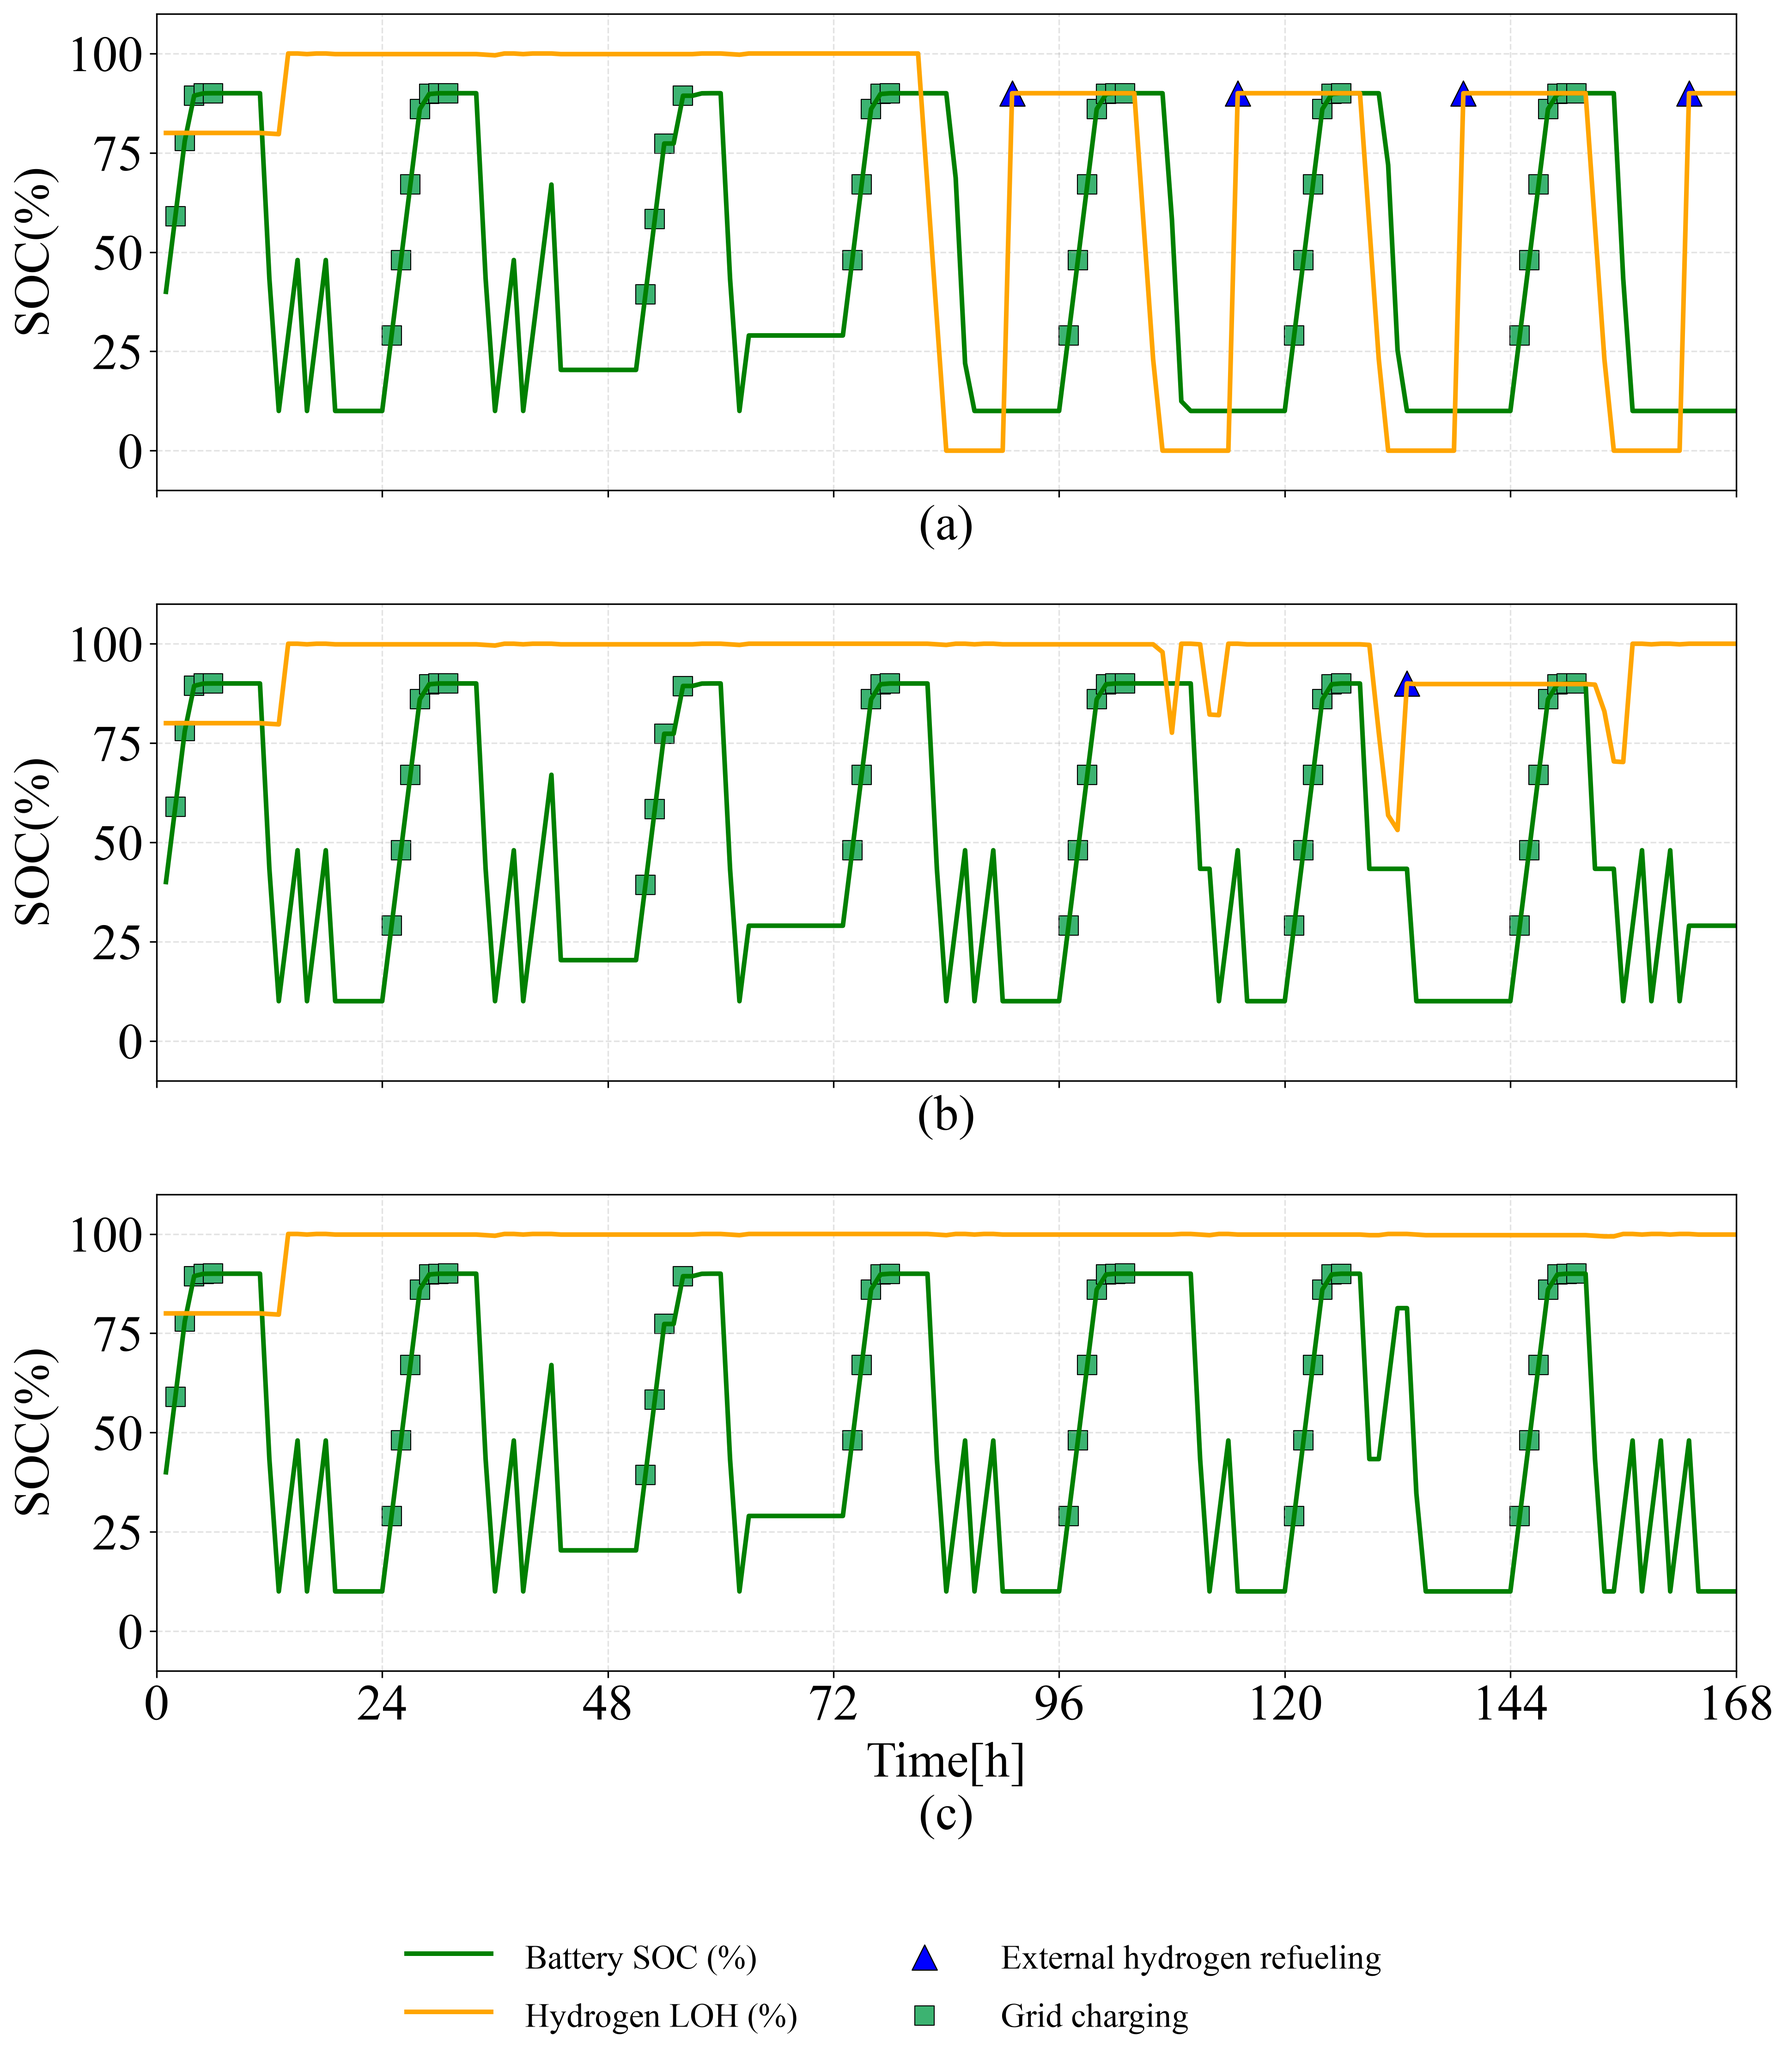
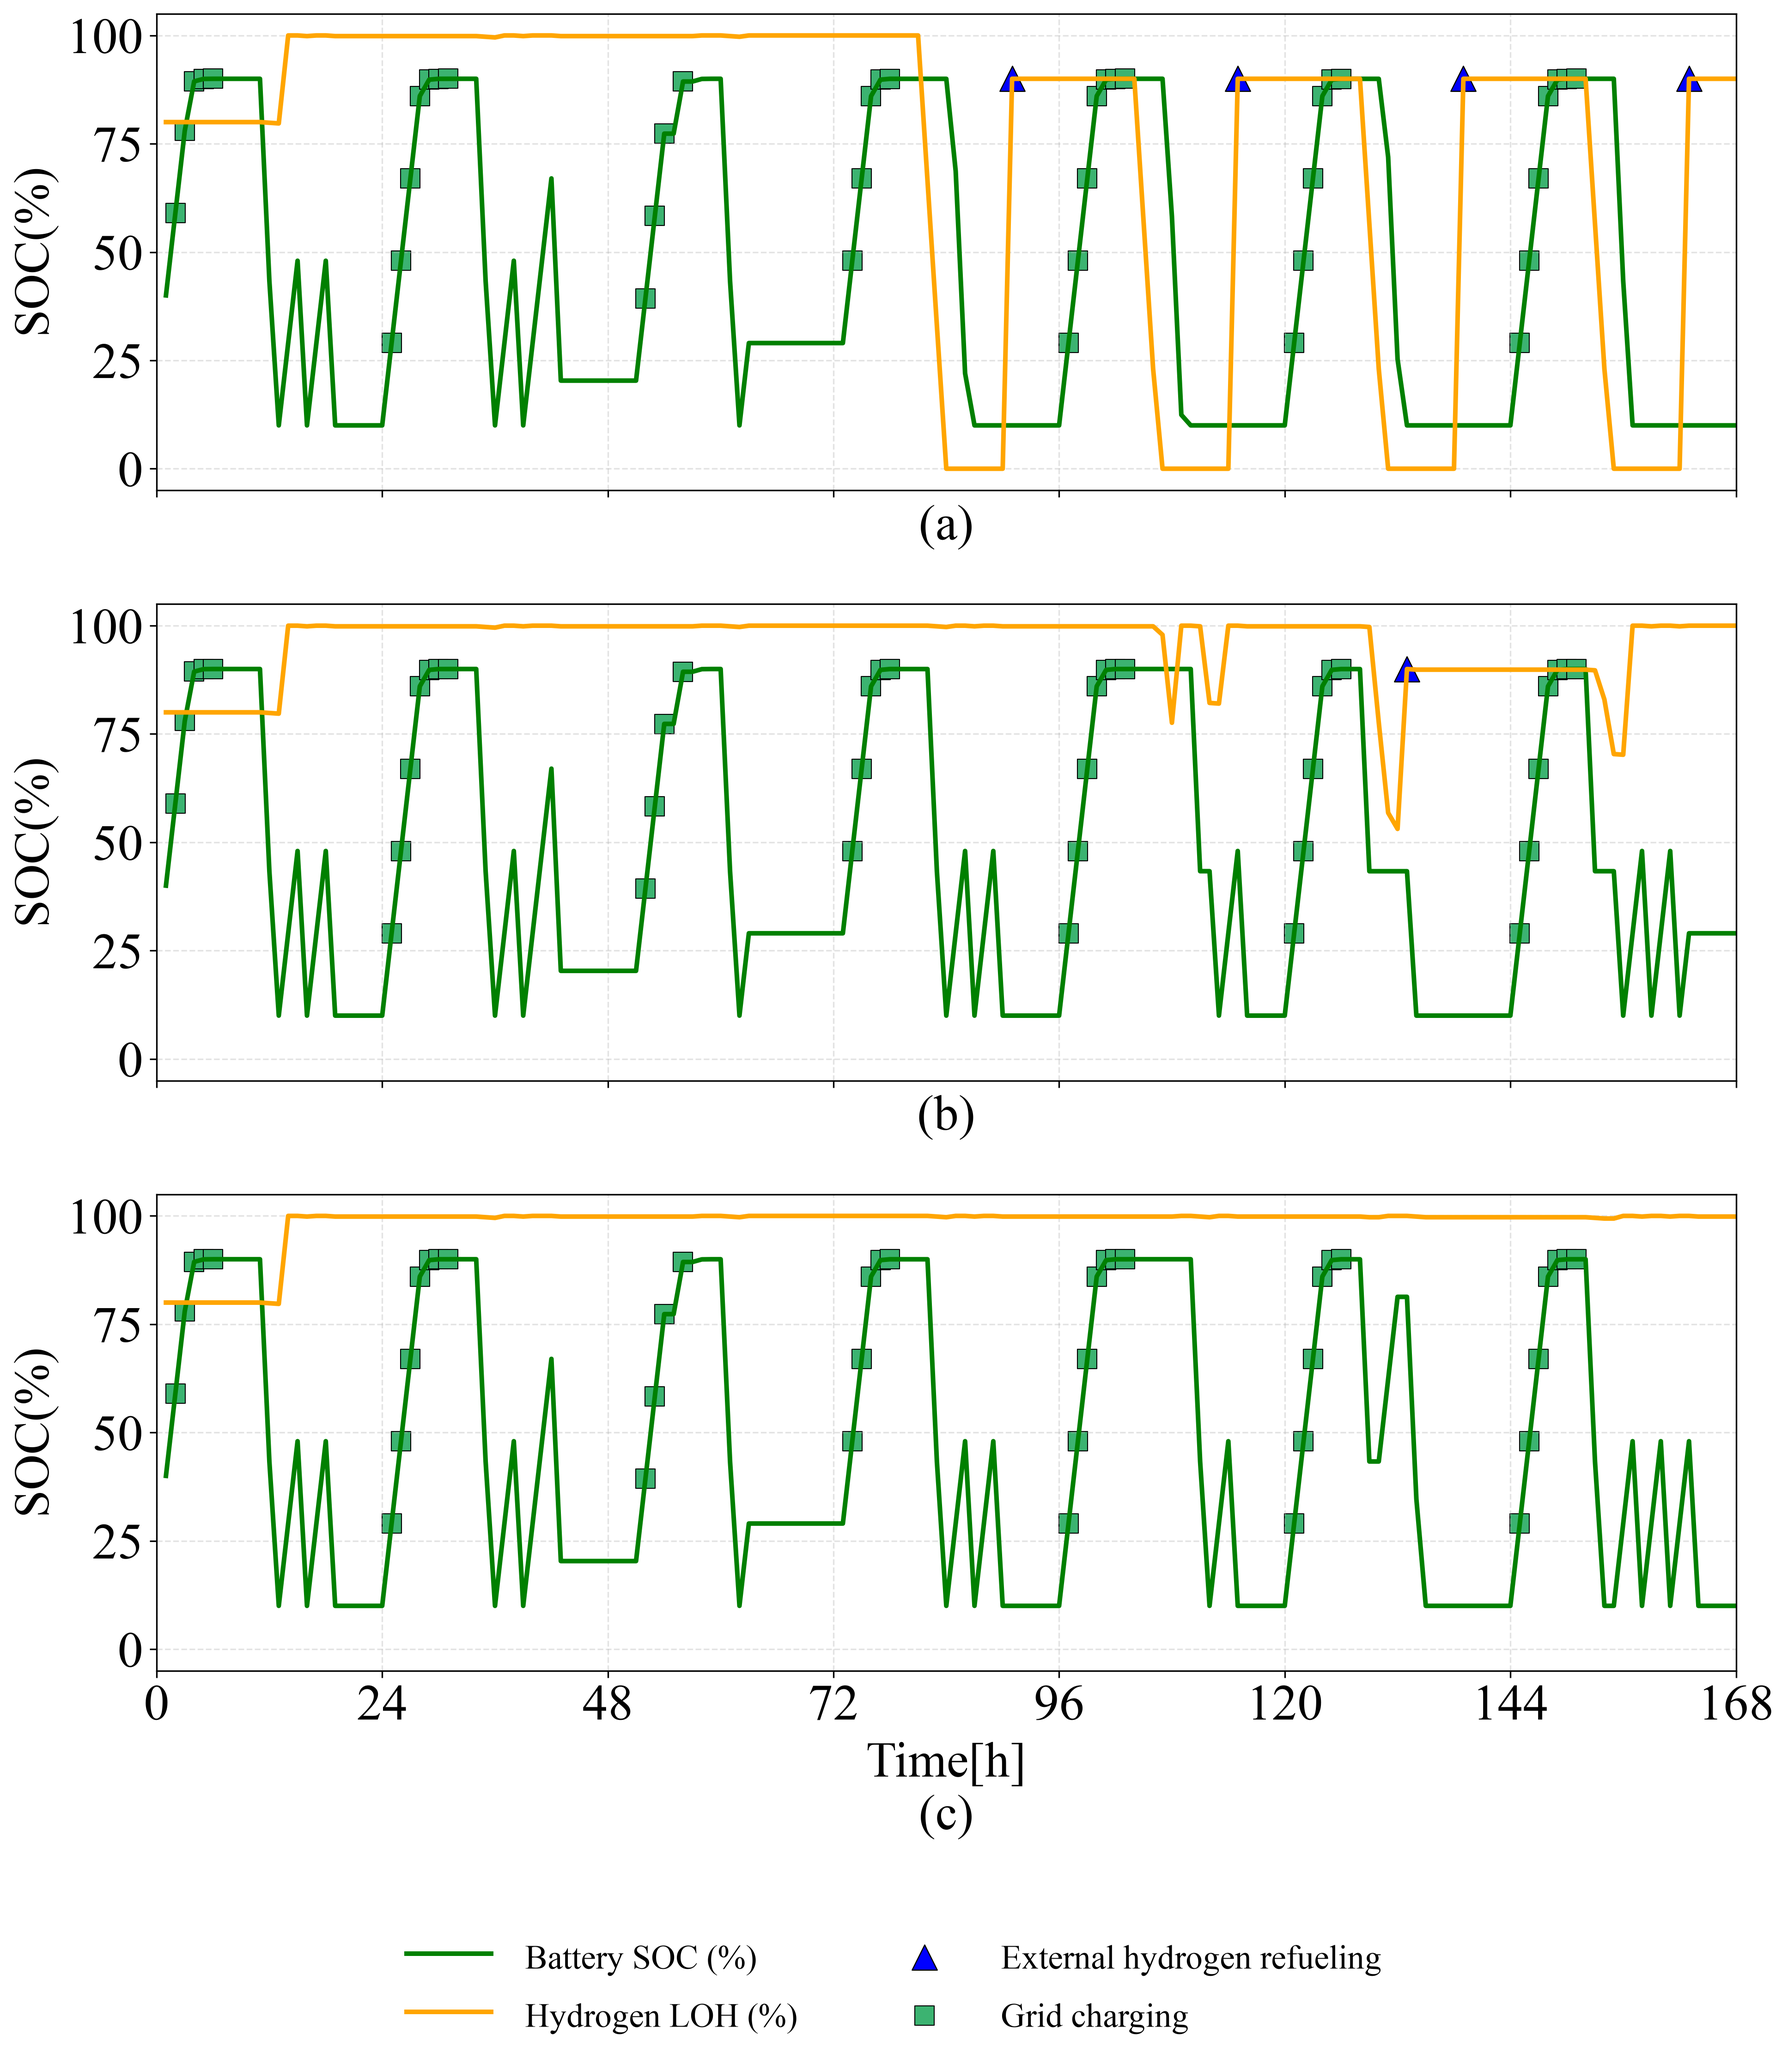
Set Figure 6 y-axis to minus five through 105

diff --git a/HB-MPS main simulation.py b/HB-MPS main simulation.py
@@ -523,7 +523,7 @@ def draw_asset_status(ax, res, alpha):
         )
 
     ax.set_ylabel("SOC(%)", fontsize=Config.FONT_LABEL)
-    ax.set_ylim(-10, 110)
+    ax.set_ylim(-5, 105)
     ax.set_yticks([0, 25, 50, 75, 100])
     ax.grid(True, linestyle="--", alpha=0.35)
     format_time_axis(ax)
